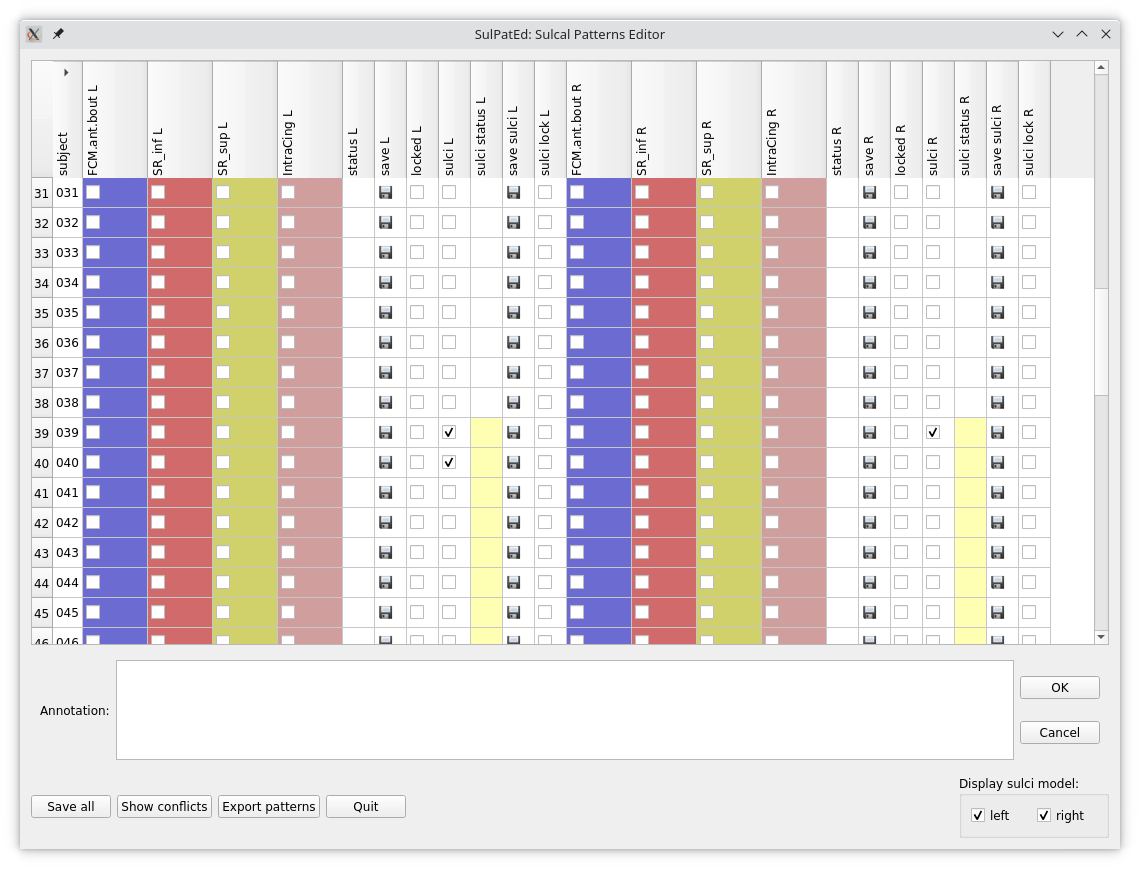
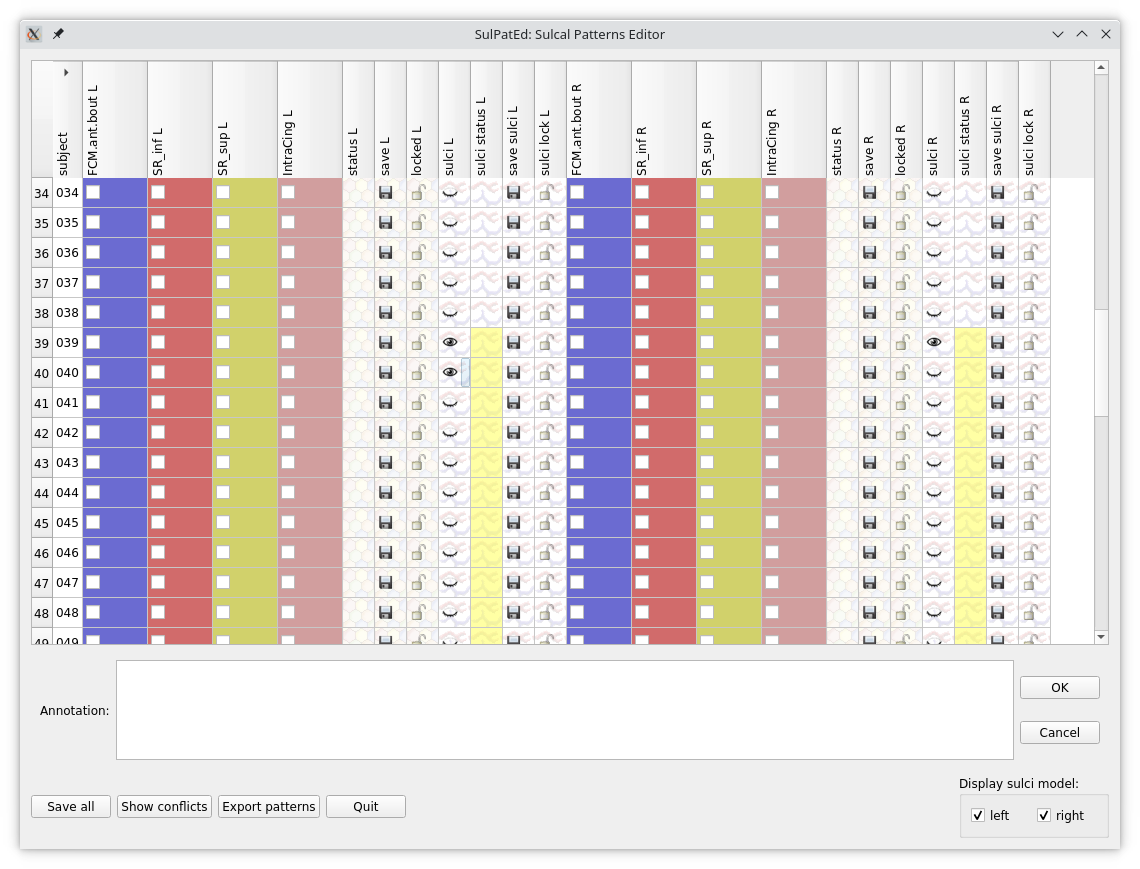
updated doc

Changed region(s): [[0.3377, 0.2175, 0.4912, 0.7457], [0.7675, 0.2175, 0.9211, 0.7457], [0.0307, 0.4039, 0.0614, 0.435]]

diff --git a/python/morphologist/sulpated/sulpated_gui.py b/python/morphologist/sulpated/sulpated_gui.py
@@ -395,7 +395,6 @@ class SulcalPatternsEditor(Qt.QWidget):
                 table.setItem(row, lock_pat_col + sidecol, item)
 
                 visible = side in self.displayed_sulci.get(subject, {})
-                print('visible:', visible)
                 visible_icn = self.visible_icons[int(visible)]
                 item = Qt.QTableWidgetItem(visible_icn, None)
                 item.setData(Qt.Qt.UserRole, visible)
@@ -971,7 +970,7 @@ class SulcalPatternsEditor(Qt.QWidget):
             viewer.graph = org_graph_file
             viewer.mesh_opacity = 0.7
             # then lock all params and set the backup, if any
-            if graph_file not in(org_graph_file, org_graph_file.fullPath()):
+            if graph_file not in (org_graph_file, org_graph_file.fullPath()):
                 for param in viewer.signature:
                     viewer.setDefault(param, False)
                 viewer.graph = graph_file
@@ -1211,6 +1210,7 @@ class PatternsWidget(Qt.QWidget):
             checked = item.checkState()
             button.setChecked(checked)
             button.setObjectName('btn-%s-%s' % (self.subject, self.side))
+            button.setToolTip(f'Pattern: {pattern} {self.side}')
             active = (checked == Qt.Qt.Checked)
             color = self.editor.item_color(self.subject, self.side, pattern,
                                            True)

diff --git a/sphinx/user_doc/sulpated.rst b/sphinx/user_doc/sulpated.rst
@@ -140,13 +140,23 @@ Status columns will show when data have been modified by the user.
 
 The status background is light yellow if the data has been saved (after edition).
 
-Locked data are not editable, so it's a reasonable and convenient way to mark validated data.
+Locked data cannot be saved (even if they cas be edited, actually), so it's a reasonable and convenient way to mark validated data.
 
 Sulci columns checkboxes allow to load / show sulci graphs.
 
 Save buttons allow to save each corresponding data. **Beware** there is as "save" (patterns) column, and a "save sulci" column.
 
-To avoid confusions, **pattern-oriented colums** have a background with a pattern icon (light hexagonal tiles), while **sulci-oriented columns** have a "sulci" background. It's not very pretty, but it makes things clearer.
+To avoid confusions, **pattern-oriented colums** and buttons have a background with a pattern icon (light hexagonal tiles), while **sulci-oriented columns** have a "sulci" background. It's not very pretty, but it makes things clearer.
+
+.. |pat| image:: images/pattern.png
+
+.. |sul| image:: images/sulci.png
+
++---------------------+-------------------+
+| pattern background: | sulci background: |
++---------------------+-------------------+
+| |pat|               | |sul|             |
++---------------------+-------------------+
 
 Display sulci model: allows to show in the 3D views the sulci models from Morphologist, with all available labels.
 
@@ -237,7 +247,7 @@ Features and status of the implementation
 
     - one color per label ?                                               |ok|
     - with label names displayed only once in the window ?
-    - label name as tooltip ?                                           |todo|
+    - label name as tooltip ?                                             |ok|
 
   - [labels confidence / annotations ?] or this can be opened specifically and temporarily on a user action (menu, button)                          |notok|
   - save button, displaying unsaved state                                 |ok|
